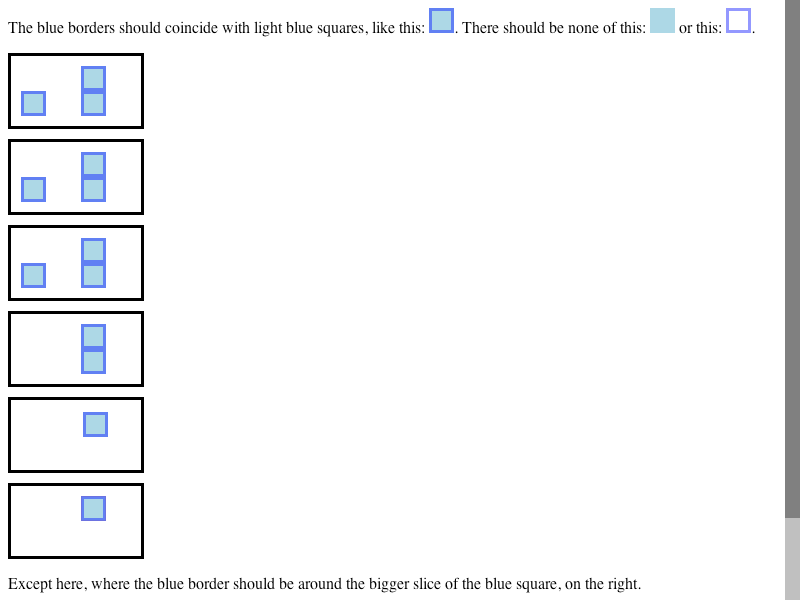
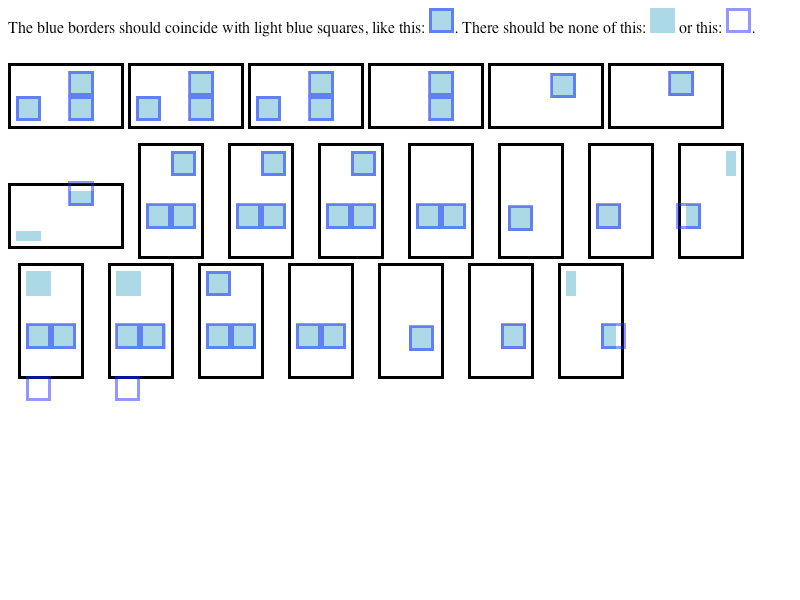
[New Multicolumn] getClientRects returns wrong rectangle https://bugs.webkit.org/show_bug.cgi?id=128614
Reviewed by Sam Weinig.

Added fast/multicol/newmulticol/client-rects.html and beefed up existing
fast/multicol/client-rects.html to use more writing modes.

Source/WebCore: 

* rendering/LayoutState.h:
Removed unused function.

* rendering/RenderFlowThread.h:
Make mapFlowToRegion virtual so that RenderMultiColumnFlowThread can
override it.

* rendering/RenderMultiColumnFlowThread.cpp:
(WebCore::RenderMultiColumnFlowThread::mapFromFlowToRegion):
* rendering/RenderMultiColumnFlowThread.h:
Implement mapFlowToRegion to correctly translate a flow thread position
into a column offset within a region.

* rendering/RenderMultiColumnSet.cpp:
(WebCore::RenderMultiColumnSet::columnTranslationForOffset):
(WebCore::RenderMultiColumnSet::adjustRegionBoundsFromFlowThreadPortionRect):
* rendering/RenderMultiColumnSet.h:
Refactored some code to make a columnTranslationForOffset helper that
can be used by RenderMultiColumnFlowThread.

LayoutTests: 

* fast/multicol/client-rects.html:
* fast/multicol/newmulticol/client-rects-expected.html: Added.
* fast/multicol/newmulticol/client-rects.html: Added.
* platform/mac/fast/multicol/client-rects-expected.png:
* platform/mac/fast/multicol/client-rects-expected.txt:

git-svn-id: https://svn.webkit.org/repository/webkit/trunk@165991 268f45cc-cd09-0410-ab3c-d52691b4dbfc

Changed region(s): [[0.0, 0.09, 0.9375, 0.93], [0.9688, 0.0, 1.0, 1.0], [0.0, 0.96, 0.8125, 0.99]]

diff --git a/LayoutTests/fast/multicol/newmulticol/client-rects.html b/LayoutTests/fast/multicol/newmulticol/client-rects.html
@@ -1,3 +1,7 @@
+<head>
+<script>
+internals.settings.setRegionBasedColumnsEnabled(true)
+</script>
 <style>
     div.columns {
         display:inline-block;
@@ -37,7 +41,9 @@
 
     .vertical { -webkit-writing-mode: vertical-lr; }
     .vertical.flipped { -webkit-writing-mode: vertical-rl; }
+
 </style>
+</head>
 <p>
     The blue borders should coincide with light blue squares, like this:
     <span style="display: inline-block; background-color: lightblue; border: solid rgba(0, 0, 255, 0.5); width: 19px; height: 19px;"></span>.

diff --git a/Source/WebCore/rendering/RenderMultiColumnFlowThread.cpp b/Source/WebCore/rendering/RenderMultiColumnFlowThread.cpp
@@ -28,6 +28,7 @@
 
 #include "LayoutState.h"
 #include "RenderMultiColumnSet.h"
+#include "TransformState.h"
 
 namespace WebCore {
 
@@ -171,6 +172,43 @@ void RenderMultiColumnFlowThread::computeLineGridPaginationOrigin(LayoutState& l
                 layoutState.setLineGridPaginationOrigin(LayoutSize(paginationDelta, layoutState.lineGridPaginationOrigin().height()));
         }
     }
+}
+
+RenderRegion* RenderMultiColumnFlowThread::mapFromFlowToRegion(TransformState& transformState) const
+{
+    if (!hasValidRegionInfo())
+        return nullptr;
+
+    // Get back into our local flow thread space.
+    LayoutRect boxRect = transformState.mappedQuad().enclosingBoundingBox();
+    flipForWritingMode(boxRect);
+
+    // FIXME: We need to refactor RenderObject::absoluteQuads to be able to split the quads across regions,
+    // for now we just take the center of the mapped enclosing box and map it to a column.
+    LayoutPoint center = boxRect.center();
+    LayoutUnit centerOffset = isHorizontalWritingMode() ? center.y() : center.x();
+    RenderRegion* renderRegion = const_cast<RenderMultiColumnFlowThread*>(this)->regionAtBlockOffset(this, centerOffset, true, DisallowRegionAutoGeneration);
+    if (!renderRegion)
+        return nullptr;
+
+    // Now that we know which multicolumn set we hit, we need to get the appropriate translation offset for the column.
+    RenderMultiColumnSet* columnSet = toRenderMultiColumnSet(renderRegion);
+    LayoutPoint translationOffset = columnSet->columnTranslationForOffset(centerOffset);
+    
+    // Now we know how we want the rect to be translated into the region.
+    LayoutRect flippedRegionRect(renderRegion->flowThreadPortionRect());
+    if (isHorizontalWritingMode())
+        flippedRegionRect.setHeight(columnSet->computedColumnHeight());
+    else
+        flippedRegionRect.setWidth(columnSet->computedColumnHeight());
+    flipForWritingMode(flippedRegionRect);
+    
+    flippedRegionRect.moveBy(-translationOffset);
+    
+    // There is an additional offset to apply, which is the offset of the region within the multi-column space.
+    transformState.move(renderRegion->contentBoxRect().location() - flippedRegionRect.location());
+
+    return renderRegion;
 }
 
 }

diff --git a/Source/WebCore/rendering/RenderMultiColumnSet.cpp b/Source/WebCore/rendering/RenderMultiColumnSet.cpp
@@ -655,10 +655,9 @@ void RenderMultiColumnSet::collectLayerFragments(LayerFragments& fragments, cons
     }
 }
 
-void RenderMultiColumnSet::adjustRegionBoundsFromFlowThreadPortionRect(const LayoutPoint& layerOffset, LayoutRect& regionBounds)
+LayoutPoint RenderMultiColumnSet::columnTranslationForOffset(const LayoutUnit& offset) const
 {
-    LayoutUnit layerLogicalTop = isHorizontalWritingMode() ? layerOffset.y() : layerOffset.x();
-    unsigned startColumn = columnIndexAtOffset(layerLogicalTop);
+    unsigned startColumn = columnIndexAtOffset(offset);
     
     LayoutUnit colGap = columnGap();
     LayoutUnit colLogicalWidth = computedColumnWidth();
@@ -694,11 +693,15 @@ void RenderMultiColumnSet::adjustRegionBoundsFromFlowThreadPortionRect(const Lay
     
     if (!isHorizontalWritingMode())
         translationOffset = translationOffset.transposedPoint();
-
+    
     // FIXME: The translation needs to include the multicolumn set's content offset within the
     // multicolumn block as well. This won't be an issue until we start creating multiple multicolumn sets.
-    
-    regionBounds.moveBy(roundedIntPoint(-translationOffset));
+    return translationOffset;
+}
+
+void RenderMultiColumnSet::adjustRegionBoundsFromFlowThreadPortionRect(const LayoutPoint& layerOffset, LayoutRect& regionBounds)
+{
+    regionBounds.moveBy(roundedIntPoint(-columnTranslationForOffset(isHorizontalWritingMode() ? layerOffset.y() : layerOffset.x())));
 }
 
 void RenderMultiColumnSet::addOverflowFromChildren()

diff --git a/Source/WebCore/rendering/RenderFlowThread.h b/Source/WebCore/rendering/RenderFlowThread.h
@@ -107,7 +107,7 @@ public:
     bool regionsHaveUniformLogicalWidth() const { return m_regionsHaveUniformLogicalWidth; }
     bool regionsHaveUniformLogicalHeight() const { return m_regionsHaveUniformLogicalHeight; }
 
-    RenderRegion* mapFromFlowToRegion(TransformState&) const;
+    virtual RenderRegion* mapFromFlowToRegion(TransformState&) const;
 
     void removeRenderBoxRegionInfo(RenderBox*);
     void logicalWidthChangedInRegionsForBlock(const RenderBlock*, bool&);

diff --git a/Source/WebCore/rendering/RenderMultiColumnFlowThread.h b/Source/WebCore/rendering/RenderMultiColumnFlowThread.h
@@ -63,6 +63,8 @@ public:
     
     virtual void computeLineGridPaginationOrigin(LayoutState&) const override;
     
+    virtual RenderRegion* mapFromFlowToRegion(TransformState&) const override;
+    
 private:
     virtual const char* renderName() const override;
     virtual void computeLogicalHeight(LayoutUnit logicalHeight, LayoutUnit logicalTop, LogicalExtentComputedValues&) const override;

diff --git a/Source/WebCore/rendering/LayoutState.h b/Source/WebCore/rendering/LayoutState.h
@@ -99,8 +99,6 @@ private:
     void propagateLineGridInfo(RenderBox*);
     void establishLineGrid(RenderBlockFlow*);
 
-    void computeLineGridPaginationOrigin(RenderBox*);
-
 public:
     // Do not add anything apart from bitfields until after m_columnInfo. See https://bugs.webkit.org/show_bug.cgi?id=100173
     bool m_clipped : 1;

diff --git a/Source/WebCore/rendering/RenderMultiColumnSet.h b/Source/WebCore/rendering/RenderMultiColumnSet.h
@@ -82,6 +82,8 @@ public:
 
     void prepareForLayout();
 
+    LayoutPoint columnTranslationForOffset(const LayoutUnit&) const;
+
 protected:
     void addOverflowFromChildren() override;
     
